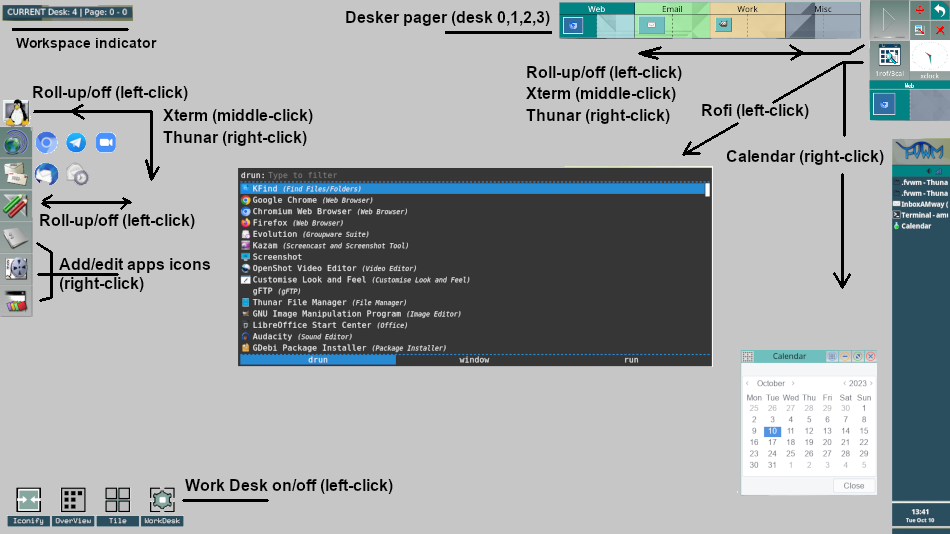
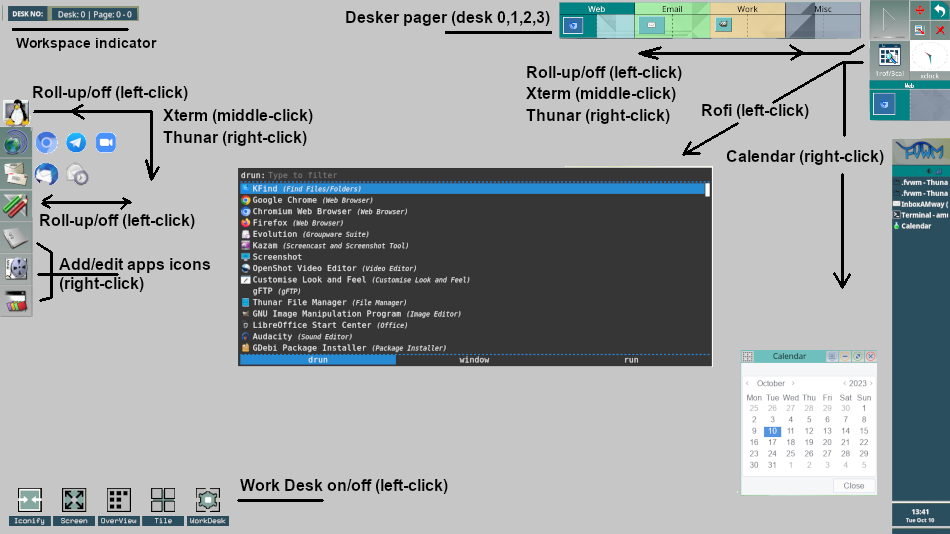
Vesrion 1.7.0
Full-Screen Maximize, scalable wallpaper feature,and improved window focus.

Changed region(s): [[0.0, 0.8989, 0.4884, 0.9888], [0.0, 0.0, 0.1526, 0.0599]]

diff --git a/setup/INSTALL.md b/setup/INSTALL.md
@@ -32,12 +32,11 @@ Documentation, XDG menu, Network and Volume Icon (add icon in system tray):
 * sudo pacman -Syu asciidoctor xterm python3-xdg stalonetray volumeicon
 * sudo dnf install rubygem-asciidoctor xterm xdg-utils stalonetray volumeicon
 
-Required by Thumbnails and Picom (compositor):
+Required by Thumbnails, Picom (compositor), and Wallpaper:
 ===============================================================
-* sudo apt install imagemagick x11-apps picom
-* sudo apt install imagemagick x11-apps picom
-* sudo pacman -Syu imagemagick x11-apps picom
-* sudo dnf install ImageMagick xwd x11-apps picom
+* sudo apt install feh imagemagick x11-apps picom
+* sudo pacman -Syu feh imagemagick x11-apps picom
+* sudo dnf install feh ImageMagick xwd x11-apps picom
 
 Search apps and File Manager:
 ===============================================================

diff --git a/README.md b/README.md
@@ -5,16 +5,19 @@ The default Fvwm config file is the base. In KISe it is split into associated fo
 
 # Main features:
 * Desk Launcher includes:
-	Iconfied Thumbnails, Windows Overview, Tiling, and Work Desk.
+	Iconfied Thumbnails, Full-Screen Maximize, Windows Overview,
+	Tiling, and Work Desk.
 
-* Work Desk includes navigation buttons and 4 Desks with 2 Pages each.
+* Work Desk includes navigation buttons, Rofi, Calendar, Clock,
+	and 4 Desks Pager with 2 Pages each.
  	(Web, Email, Work and Misc. desk).
 
-* Icon/Application Panel
-* Task Panel
-* Calendar/Day/Time Panel
-* 4-button Window Title Bar
-* Page Indicator
+* Icon/Application Panel.
+* Task Panel.
+* Day/Time Panel.
+* 4-button Window Title Bar.
+* Page Indicator.
+* Tiled and scalable wallpaper features.
 * Elegant transparency and shadows.
 * Window focus on all desks and pages.
 
